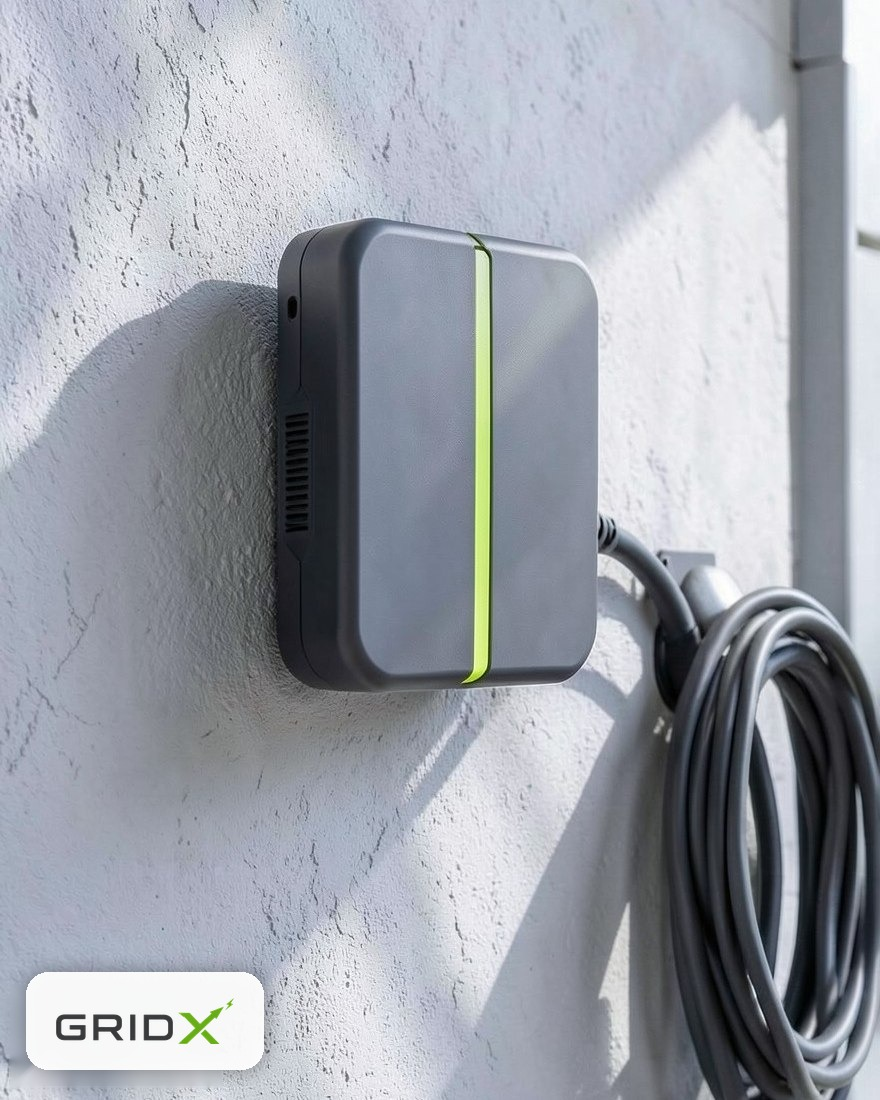
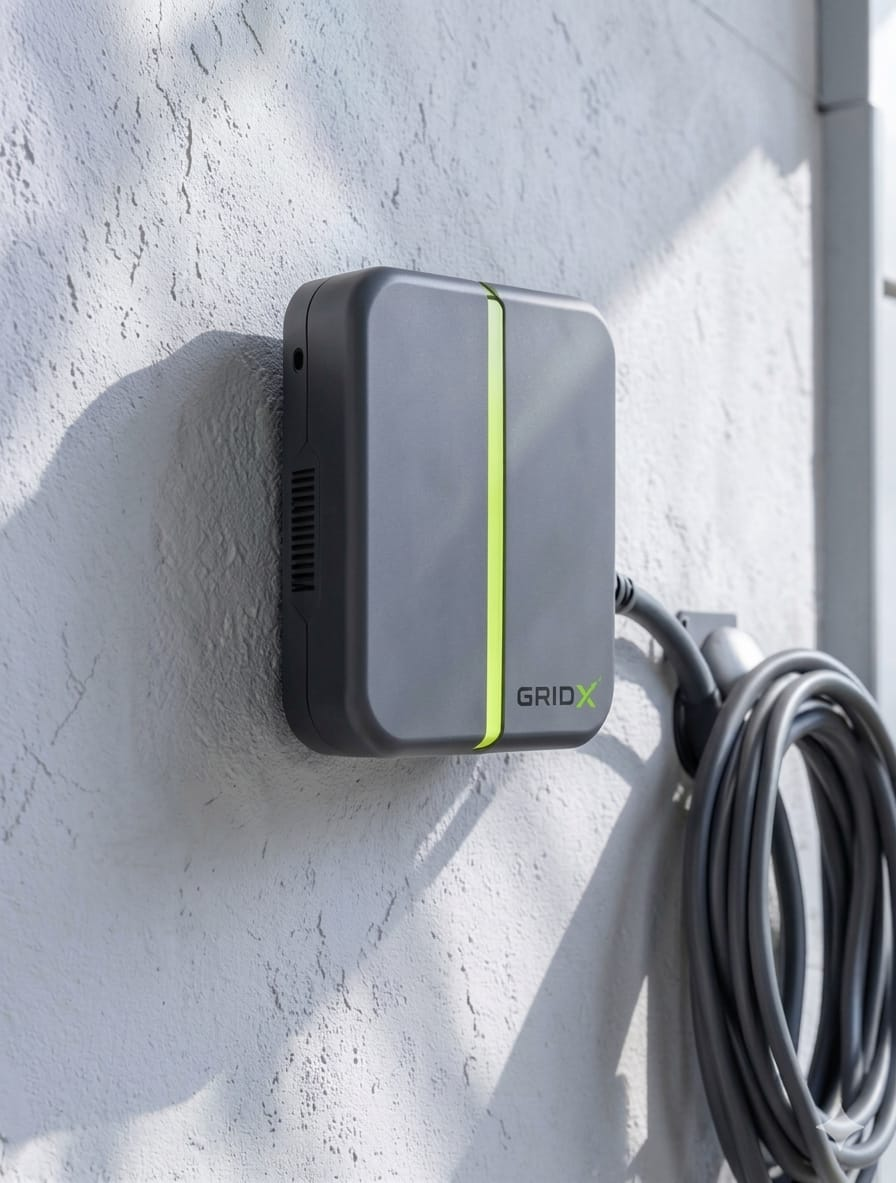
last version

diff --git a/src/data/site.js b/src/data/site.js
@@ -67,89 +67,92 @@ export const about = {
 export const products = {
   eyebrow: 'Our products',
   title: 'A charger for every site.',
-  lead: 'From overnight home charging to highway-grade ultra-fast hubs — all CCS2-ready, OCPP-compliant, and built for Indian conditions.',
+  lead: 'From light electric two- and three-wheelers to highway-grade ultra-fast hubs — OCPP-compliant chargers built for Indian conditions, spanning every standard from Type 6/7 to Type 2 and CCS2.',
   items: [
+    {
+      id: 'lev',
+      name: 'GridX DC 3-12',
+      tag: 'Two & three wheelers',
+      power: '3-12',
+      unit: 'kW',
+      summary: 'Compact DC fast charging built for electric scooters, bikes, and e-autos. A single unit supports both the Type 6 and Type 7 light-EV standards — delivering up to about 1% charge per minute.',
+      img: '/images/gridx-dc22.jpg',
+      highlights: ['Type 6 & Type 7 ports', '2 & 3 wheelers', 'Up to ~1% charge / min'],
+      specs: {
+        'Output power': '3 / 6 / 12 kW DC (variant-based)',
+        'Connectors': 'Type 6 (IS 17017-2-6 / LEVDC) & Type 7 (LECCS)',
+        'Output voltage': 'Up to 120 V DC',
+        'Output current': 'Up to 120 A (Type 6) · CAN-bus handshake',
+        'AC input': '230 V 1-phase (3 kW) / 400 V 3-phase (12 kW), 16 A',
+        'Compatibility': 'Ather, Ola, Hero Vida, TVS, Bajaj, Matter, e-rickshaws',
+        'Connectivity': 'WiFi, 4G · OCPP',
+        'IP rating': 'IP54, indoor & outdoor',
+        'Ideal use': 'Homes, RWAs, fleet depots, public 2W/3W charging',
+      },
+    },
     {
       id: 'ac',
       name: 'GridX AC',
       tag: 'Home & workplace',
-      power: '7.4',
+      power: '3-11',
       unit: 'kW',
-      summary: 'Wall-mounted AC charging for overnight and dwell-time top-ups. Gentle on the battery, easy to install.',
+      summary: 'Wall-mounted Type 2 AC charging for cars — gentle on the battery and ideal for overnight or workplace top-ups. Works with every modern four-wheeler EV sold in India.',
       img: '/images/gridx-ac.jpg',
-      highlights: ['Type 2 connector', '4 wheeler: 3–5 hrs', 'IP56, indoor/outdoor'],
+      highlights: ['Type 2 connector', '4-wheelers', 'WiFi · 4G · OCPP'],
       specs: {
-        'Output power': '7.4 kW (1-phase), 11 / 22 kW (3-phase)',
-        'Connector': 'Type 2',
-        'Connectivity': 'WiFi, 4G',
-        'IP rating': 'IP56',
-        'Charging time (4W)': '3–5 hours',
-        'Ideal use': 'Residences, workplaces, captive/overnight charging',
+        'Output power': '3.3 kW / 7.4 kW (1-phase) · 11 kW (3-phase)',
+        'Connector': 'Type 2 (Mennekes), up to 32 A',
+        'Compatibility': 'All modern 4-wheeler EVs in India',
+        'Connectivity': 'WiFi, 4G · OCPP',
+        'IP rating': 'IP56, indoor & outdoor',
+        'Charging time (4W)': '4–8 hours (battery & rating dependent)',
+        'Ideal use': 'Residences, workplaces, societies, overnight charging',
       },
     },
     {
-      id: 'dc22',
-      name: 'GridX DC 22',
-      tag: 'Compact DC',
-      power: '22',
-      unit: 'kW',
-      summary: 'Ultra-compact wall-mount DC fast charger. True plug & play for residential and small commercial sites.',
-      img: '/images/gridx-dc22.jpg',
-      highlights: ['CCS2 · 73 A', 'Single module, wall-mount', '>97% uptime, IP55'],
-      specs: {
-        'Output power': '22 kW DC, single outlet',
-        'Output voltage': '150–1000 V',
-        'Output current': 'CCS2: 73 A',
-        'AC input': '415 VAC 3-phase (280–530 VAC range)',
-        'Efficiency': 'Up to 96%',
-        'Connector': 'CCS2, 7.5 m cable',
-        'Authentication': 'RFID, Autocharge, Plug & Charge, App',
-        'OCPP': '1.6J & 2.0.1',
-        'IP rating': 'IP55, indoor & outdoor',
-        'Form factor': '700 × 400 × 180 mm · ~50 kg · wall-mount',
-      },
-    },
-    {
-      id: 'dc60',
+      id: 'dc',
       name: 'GridX DC 60-120',
       tag: 'Quick stop',
       power: '60-120',
       unit: 'kW',
-      showLogoOverlay: true, 
-      summary: 'The sweet spot for retail, malls, and fleet depots — a fast top-up while you run an errand.',
+      showLogoOverlay: true,
+      summary: 'The sweet spot for retail, malls, and fleet depots — a fast top-up while you run an errand. Configurable from 60 to 120 kW with a dual-gun option.',
       img: '/images/gridx-dc60.jpg',
-      highlights: ['CCS2 dual-gun option', '10→80% in ~35 min', 'WiFi + 4G, OCPP'],
+      highlights: ['CCS2 · dual-gun option', '10→80% in ~35–45 min', 'Configurable 30 kW steps'],
       specs: {
-        'Output power': '60-120 kW DC (30 kW single-gun option)',
-        'Output voltage': '200–1000 V',
+        'Output power': '60–120 kW DC, configurable in 30 kW steps',
+        'Output voltage': '150–1000 V DC',
+        'Output current': 'CCS2: up to 250 A per outlet',
         'Connector': 'CCS2 (single or dual gun)',
-        'Connectivity': 'WiFi, 4G',
-        'IP rating': 'IP54',
-        'Charging time (4W)': '~45 min – 3 hrs',
-        'Ideal use': 'Retail, malls, workplaces, delivery fleets',
+        'Outlets': 'Single or dual outlet',
+        'Authentication': 'RFID, App, UPI / card',
+        'OCPP': '1.6J',
+        'IP rating': 'IP54, indoor & outdoor',
+        'Ideal use': 'Retail, malls, fleet depots, workplaces, societies',
+        'Form factor': '~1850 × 650 × 630 mm · floor-mount',
       },
     },
     {
       id: 'ultra',
       name: 'GridX UltraFast',
       tag: 'Highway & hubs',
-      power: '180–240',
+      power: '180-240',
       unit: 'kW',
-      showLogoOverlay: true, 
+      showLogoOverlay: true,
       summary: 'Floor-standing ultra-fast charger, upgradable in modules to 240 kW with dynamic power sharing and a 10" HD touchscreen.',
       img: '/images/gridx-ultrafast.jpg',
       highlights: ['Up to 240 kW · dual CCS2', '10" HD touchscreen', 'Dynamic power sharing'],
       specs: {
-        'Output power': 'Upgradable 60 / 80 / 90 / 120 / 160 / 180 / 240 kW',
-        'Power sharing': 'Dynamic, 30–40 kW granularity (max 375 A)',
-        'Output voltage': '150–1000 V',
-        'Output current': 'CCS2 peak 400 A (boost), 350 A constant',
-        'Outlets': 'Dual outlet',
-        'Display': '10" HD anti-glare touchscreen, 1000 nits',
+        'Output power': 'Upgradable 180 / 200 / 240 kW (modular)',
+        'Output voltage': '150–1000 V DC',
+        'Output current': 'CCS2: up to 400 A per outlet',
+        'Connector': 'Dual CCS2',
+        'Outlets': 'Dual outlet · dynamic power sharing',
         'Authentication': 'RFID, Autocharge, Plug & Charge, App',
         'OCPP': '1.6J & 2.0.1',
         'IP rating': 'IP55, indoor & outdoor',
-        'Form factor': '2000 × 750 × 650 mm · ~540 kg · floor-mount',
+        'Ideal use': 'Highways, charging hubs, fleet & bus depots',
+        'Form factor': '~2000 × 750 × 650 mm · ~540 kg · floor-mount',
       },
     },
   ],
@@ -229,10 +232,10 @@ export const footer = {
     {
       title: 'Products',
       links: [
-        { label: 'GridX AC', href: '#products' },
-        { label: 'GridX DC 22', href: '#products' },
-        { label: 'GridX DC 60', href: '#products' },
-        { label: 'GridX UltraFast', href: '#products' },
+        { label: 'GridX DC 3-12kW', href: '#products' },
+        { label: 'GridX AC 3-11kW', href: '#products' },
+        { label: 'GridX DC 60-120kW', href: '#products' },
+        { label: 'GridX DC 180-240kW', href: '#products' },
       ],
     },
     {